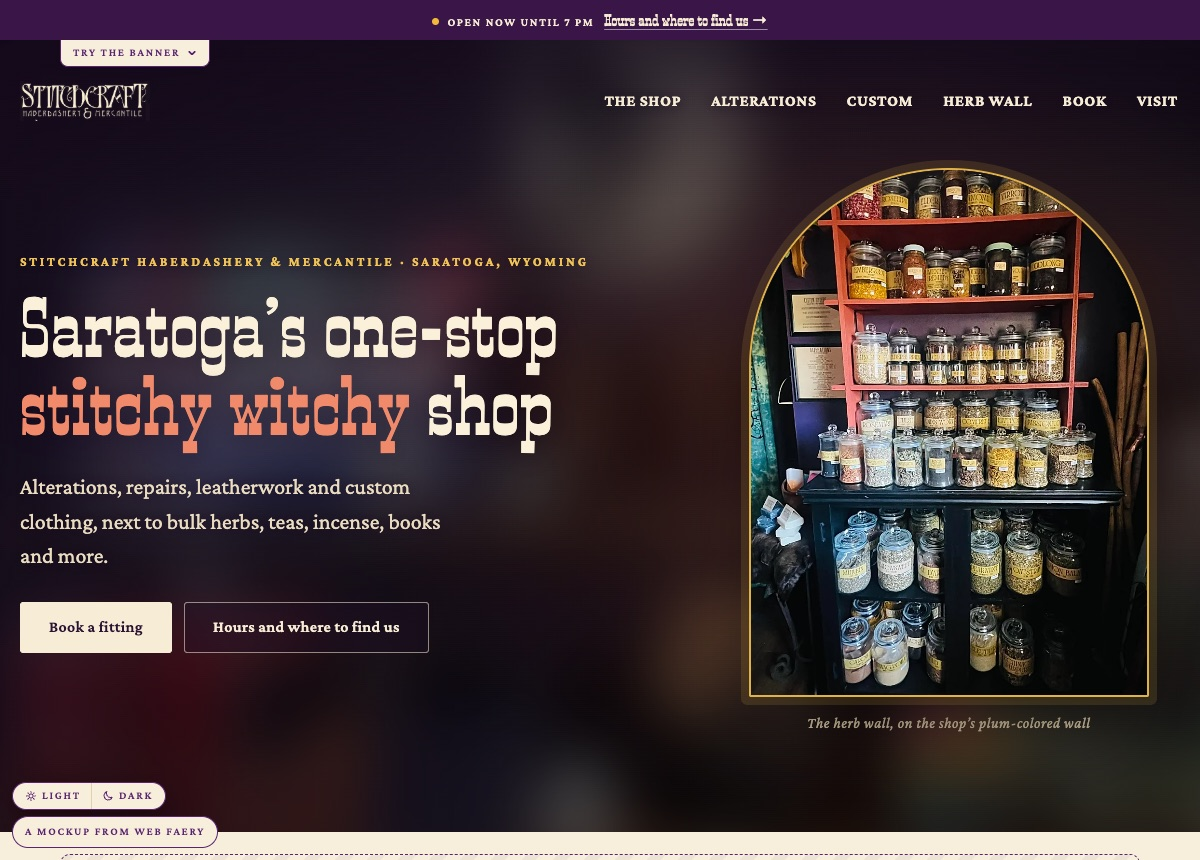
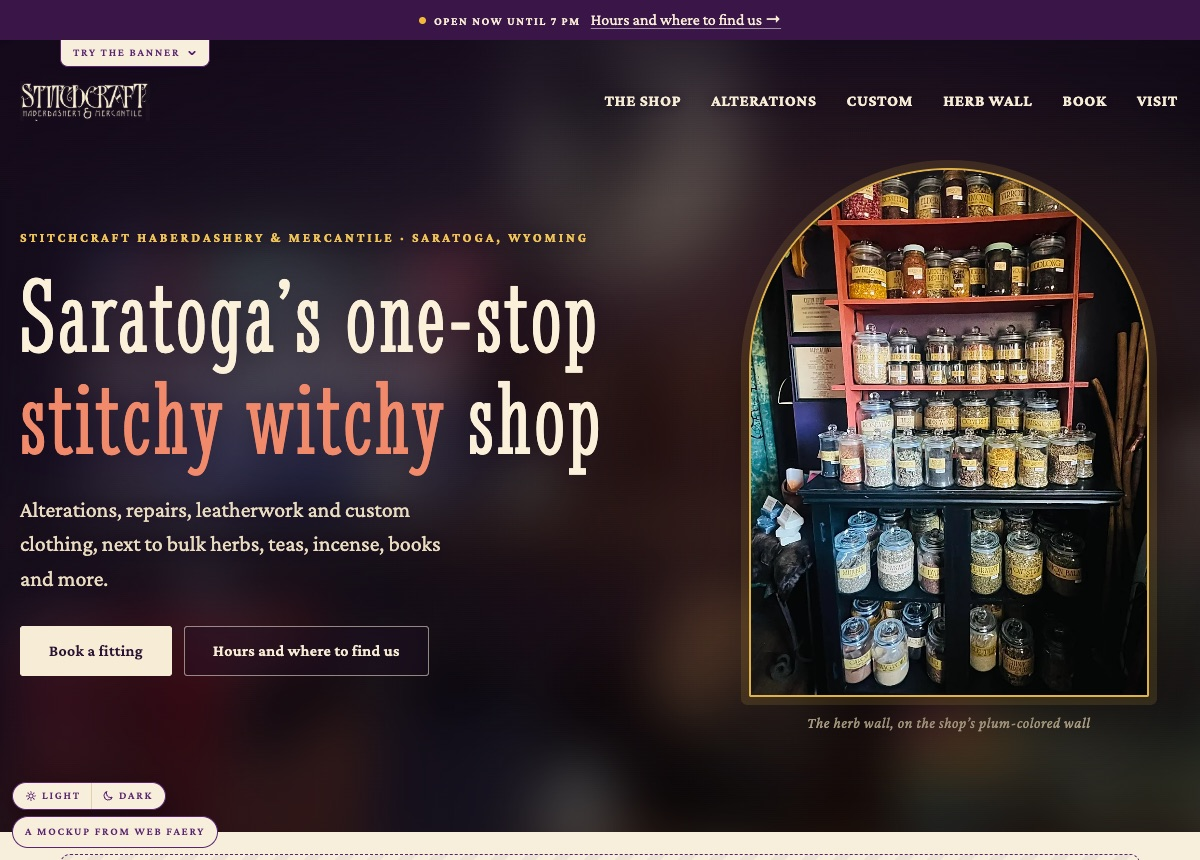
StitchCraft mockup: heading font closer to the shop's own lettering (Stint Ultra Condensed)

Changed region(s): [[0.0, 0.2721, 0.5242, 0.786], [0.3392, 0.0, 0.6475, 0.0302]]

diff --git a/peek/stitchcraft-saratoga/index.html b/peek/stitchcraft-saratoga/index.html
@@ -16,7 +16,7 @@
 <link rel="preload" as="image" type="image/webp" href="images/jar-shelf.webp" fetchpriority="high">
 <link rel="preconnect" href="https://fonts.googleapis.com">
 <link rel="preconnect" href="https://fonts.gstatic.com" crossorigin>
-<link rel="stylesheet" href="https://fonts.googleapis.com/css2?family=Crimson+Pro:ital,wght@0,400;0,600;0,700;1,400&family=Smokum&family=Caveat:wght@600&display=swap">
+<link rel="stylesheet" href="https://fonts.googleapis.com/css2?family=Crimson+Pro:ital,wght@0,400;0,600;0,700;1,400&family=Stint+Ultra+Condensed&family=Caveat:wght@600&display=swap">
 <script type="application/ld+json">{"@context":"https://schema.org","@type":"LocalBusiness","name":"StitchCraft Haberdashery & Mercantile","description":"Alterations, repairs, leatherwork and custom clothing, next to bulk herbs, teas, incense, books and more, in Saratoga, Wyoming.","telephone":"+1-307-939-7139","address":{"@type":"PostalAddress","streetAddress":"112 E Bridge Ave, Ste 2","addressLocality":"Saratoga","addressRegion":"WY","postalCode":"82331","addressCountry":"US"},"openingHoursSpecification":[{"@type":"OpeningHoursSpecification","dayOfWeek":["Monday","Tuesday","Thursday","Friday","Saturday"],"opens":"12:00","closes":"19:00"}],"sameAs":["https://www.instagram.com/stitchcraft_saratoga/","https://www.facebook.com/p/StitchCraft-Haberdashery-Mercantile-61575471990813/"]}</script>
 <style>
   :root {
@@ -129,7 +129,7 @@
   .news button:focus-visible, .news input:focus-visible { outline-color: var(--on-band); }
   .news .hint { color: #f0c457; }
   .news .nl-done { margin-top: 22px; padding-top: 18px; border-top: 1px solid rgba(243, 236, 246, 0.16); }
-  .news .nl-done h4 { margin: 0 0 6px; font-family: 'Smokum', Georgia, serif; font-weight: 400; font-size: 24px; color: var(--on-band); }
+  .news .nl-done h4 { margin: 0 0 6px; font-family: 'Crimson Pro', Georgia, serif; font-weight: 400; font-size: 24px; color: var(--on-band); }
   .news .demo-note { color: rgba(243, 236, 246, 0.72); }
   .news .sun-big { position: absolute; right: -46px; top: -46px; width: 150px; height: 150px; opacity: 0.16; pointer-events: none; }
 
@@ -141,7 +141,7 @@
   .status-strip b::before { content: ""; display: inline-block; width: 7px; height: 7px; border-radius: 50%; background: #f2b83a; margin-right: 8px; vertical-align: 1px; }
   .status-strip[data-state="spot"] b::before { background: #9fe07a; box-shadow: 0 0 0 3px rgba(159, 224, 122, 0.25); }
   .status-strip[data-state="full"] b::before { background: #e6a2c6; }
-  .status-strip em { font-family: 'Smokum', Georgia, serif; font-style: normal; font-size: 16px; text-decoration: underline; text-decoration-thickness: 1px; text-underline-offset: 3px; text-decoration-color: rgba(243, 236, 246, 0.55); }
+  .status-strip em { font-family: 'Crimson Pro', Georgia, serif; font-style: normal; font-size: 16px; text-decoration: underline; text-decoration-thickness: 1px; text-underline-offset: 3px; text-decoration-color: rgba(243, 236, 246, 0.55); }
   .status-strip a:hover em { text-decoration-color: currentColor; }
   .status-strip a:focus-visible { outline: 2px solid #f7ecd6; outline-offset: -4px; border-radius: 4px; }
   .status-tab { position: absolute; top: 100%; left: calc(20px + max(0px, (100% - 1120px) / 2)); display: flex; align-items: flex-start; gap: 6px; }
@@ -158,7 +158,7 @@
   .seg button { font: inherit; font-size: 15.5px; font-weight: 600; line-height: 1.25; color: var(--ink-soft); background: transparent; border: 0; border-radius: 4px; padding: 10px 12px; min-height: 44px; cursor: pointer; }
   .seg button[aria-pressed="true"] { background: var(--btn); color: var(--btn-ink); }
   .status-seg { grid-template-columns: repeat(3, minmax(0, 1fr)); flex: 0 1 360px; }
-  .status-note { margin: 0; font-family: 'Smokum', Georgia, serif; font-size: 17px; color: var(--plum); }
+  .status-note { margin: 0; font-family: 'Crimson Pro', Georgia, serif; font-size: 17px; color: var(--plum); }
   @media (prefers-reduced-motion: reduce) { .status-try svg { transition: none; } }
   @media (max-width: 560px) { .status-strip a { padding: 8px 12px; gap: 0 8px; } .status-strip b { font-size: 11px; letter-spacing: 0.11em; } .status-strip em { font-size: 15px; } .status-seg { flex-basis: 100%; } }
   .theme-tab { display: inline-flex; align-items: stretch; min-height: 26px; box-sizing: border-box; background: var(--ground); border: 1px solid var(--plum); border-top: 0; border-radius: 0 0 8px 8px; }
@@ -190,14 +190,14 @@
   .views-head { display: flex; flex-wrap: wrap; align-items: baseline; justify-content: space-between; gap: 0 14px; }
   .views-q { margin: 0; display: inline-flex; align-items: center; gap: 7px; font-size: 12px; line-height: 1.5; letter-spacing: 0.14em; text-transform: uppercase; font-weight: 600; color: var(--plum); }
   .views-q::before { content: "\2726"; content: "\2726" / ""; font-size: 9px; letter-spacing: 0; opacity: 0.8; }
-  .views-price { margin: 0; font-family: 'Smokum', Georgia, serif; font-size: 16px; line-height: 1.5; color: var(--ink-soft); }
-  .views-spots { grid-column: 1 / -1; margin: 0 2px; font-family: 'Smokum', Georgia, serif; font-size: 16px; color: var(--ink-soft); line-height: 1.5; }
+  .views-price { margin: 0; font-family: 'Crimson Pro', Georgia, serif; font-size: 16px; line-height: 1.5; color: var(--ink-soft); }
+  .views-spots { grid-column: 1 / -1; margin: 0 2px; font-family: 'Crimson Pro', Georgia, serif; font-size: 16px; color: var(--ink-soft); line-height: 1.5; }
   .vseg { display: grid; grid-template-columns: repeat(4, minmax(0, 1fr)); gap: 4px; padding: 4px; background: var(--mist); border: 1px solid var(--hair); border-radius: 8px; }
   .views-care { grid-column: 1 / -1; display: flex; flex-wrap: wrap; align-items: baseline; gap: 2px 14px; padding: 10px 14px; background: var(--mist); border: 1px solid var(--hair); border-radius: 8px; }
   .views-care .care-what { flex: 1 1 260px; font-size: 14.5px; line-height: 1.45; opacity: 0.9; }
   .vseg button { display: flex; flex-direction: column; align-items: center; justify-content: center; gap: 3px; min-height: 58px; margin: 0; padding: 8px 6px;
     font: inherit; line-height: 1.2; text-align: center; color: var(--ink); background: transparent; border: 0; border-radius: 6px; cursor: pointer; transition: background-color 0.25s ease, color 0.25s ease; }
-  .vseg b, .views-care b { font-family: 'Smokum', Georgia, serif; font-weight: 400; font-size: 20px; line-height: 1.15; }
+  .vseg b, .views-care b { font-family: 'Crimson Pro', Georgia, serif; font-weight: 400; font-size: 20px; line-height: 1.15; }
   .vseg .pr, .views-care .pr { font-size: 13.5px; color: var(--ink-soft); font-variant-numeric: tabular-nums; } /* wraps: on a narrow button the struck regular price drops under "$300 build", so no price runs into the next button */
   .vseg .pr strong, .views-care .pr strong { font-weight: 700; color: var(--plum); }
   .vseg .pr s, .views-care .pr s { margin-left: 5px; }
@@ -250,10 +250,9 @@
 
   /* ---------- StitchCraft: the look ----------
      Taken from the shop itself: the aubergine wall behind the herb shelves, the coral red of the shelf, the gold of the
-     jar labels, and the parchment of her own price boards (#e9dcb1). Smokum (a tall wanted-poster slab) after the
-     lettering on her price boards; Crimson Pro for reading. */
+     jar labels, and the parchment of her own price boards (#e9dcb1). Stint Ultra Condensed after the lettering on her price boards; Crimson Pro for reading. */
   body { font-family: 'Crimson Pro', Georgia, serif; font-size: 19.5px; line-height: 1.62; }
-  h1, h2, h3, h4, .serif { font-family: 'Smokum', 'Rockwell', Georgia, serif; font-weight: 400; text-wrap: balance; margin: 0; letter-spacing: 0.01em; text-transform: none; }
+  h1, h2, h3, h4, .serif { font-family: 'Stint Ultra Condensed', 'Rockwell', Georgia, serif; font-weight: 400; text-wrap: balance; margin: 0; letter-spacing: 0.01em; text-transform: none; }
   h2 { font-size: clamp(36px, 5.4vw, 56px); line-height: 1.04; color: var(--ink); }
   h2 em, h1 em, h3 em, h4 em { font-style: normal; color: var(--coral); }
   .label { font-family: 'Crimson Pro', Georgia, serif; font-size: 13px; letter-spacing: 0.22em; text-transform: uppercase; font-weight: 700; color: var(--plum); margin: 0 0 14px; }
@@ -345,10 +344,10 @@
   .custom .photo { aspect-ratio: 5 / 6; }
   .custom ul.makes { list-style: none; margin-top: 22px; border-top: 1px solid var(--hair); }
   .custom ul.makes li { padding: 11px 0; border-bottom: 1px solid var(--hair); display: flex; gap: 12px; align-items: baseline; }
-  .custom ul.makes b { font-family: 'Smokum', Georgia, serif; font-weight: 400; font-size: 23px; color: var(--ink); min-width: 9.2em; }
+  .custom ul.makes b { font-family: 'Stint Ultra Condensed', Georgia, serif; font-weight: 400; font-size: 23px; color: var(--ink); min-width: 9.2em; }
   .custom ul.makes span { color: var(--ink-soft); font-size: 17.5px; }
   .turn { display: inline-flex; align-items: baseline; gap: 10px; margin-top: 24px; padding: 10px 16px; border: 1.5px solid var(--coral); border-radius: 3px; color: var(--ink); font-weight: 600; }
-  .turn b { font-family: 'Smokum', Georgia, serif; font-weight: 400; font-size: 26px; color: var(--coral); }
+  .turn b { font-family: 'Stint Ultra Condensed', Georgia, serif; font-weight: 400; font-size: 26px; color: var(--coral); }
 
   /* THE SIGNATURE: the herb wall. Tap a jar to put it on your list; the list writes your note to the shop. */
   .wall { background: #1d0f26; color: #f7ecd6; }
@@ -384,8 +383,8 @@
   /* kind words */
   .words { display: grid; grid-template-columns: minmax(0, 1.2fr) minmax(0, 0.8fr); gap: 26px; margin-top: 34px; align-items: stretch; }
   .quote { background: var(--paper); border: 1px solid var(--hair); border-radius: 4px; padding: 34px 34px 28px; position: relative; }
-  .quote::before { content: "\201C"; position: absolute; top: 4px; left: 20px; font-family: 'Smokum', Georgia, serif; font-size: 90px; line-height: 1; color: var(--coral); opacity: 0.35; }
-  .quote p { font-family: 'Smokum', Georgia, serif; font-size: clamp(27px, 3.4vw, 36px); line-height: 1.18; color: var(--ink); position: relative; }
+  .quote::before { content: "\201C"; position: absolute; top: 4px; left: 20px; font-family: 'Stint Ultra Condensed', Georgia, serif; font-size: 90px; line-height: 1; color: var(--coral); opacity: 0.35; }
+  .quote p { font-family: 'Stint Ultra Condensed', Georgia, serif; font-size: clamp(27px, 3.4vw, 36px); line-height: 1.18; color: var(--ink); position: relative; }
   .quote cite { display: block; margin-top: 18px; font-style: normal; font-size: 15px; letter-spacing: 0.14em; text-transform: uppercase; font-weight: 700; color: var(--plum); }
 
   /* hours + find */
@@ -414,7 +413,7 @@
   .bk-nav { display: flex; flex-wrap: wrap; gap: 0 10px; align-items: center; }
   .bk-grid { display: grid; grid-template-columns: repeat(2, minmax(0, 1fr)); gap: 10px; }
   .bk-opt, .bk-day, .bk-time { font: inherit; color: var(--ink); background: var(--ground); border: 1px solid var(--hair); border-radius: 3px; padding: 12px; text-align: left; cursor: pointer; min-height: 46px; }
-  .bk-opt b { display: block; font-family: 'Smokum', Georgia, serif; font-weight: 400; font-size: 24px; line-height: 1.1; }
+  .bk-opt b { display: block; font-family: 'Stint Ultra Condensed', Georgia, serif; font-weight: 400; font-size: 24px; line-height: 1.1; }
   .bk-opt span { font-size: 16px; color: var(--ink-soft); }
   .bk-opt[aria-pressed="true"], .bk-day[aria-pressed="true"], .bk-time[aria-pressed="true"] { border-color: var(--coral); box-shadow: inset 0 0 0 1px var(--coral); }
   .bk-day:disabled, .bk-time:disabled { opacity: 0.4; cursor: not-allowed; text-decoration: line-through; }
@@ -429,13 +428,13 @@
   .bk-side .parch { padding: 22px 20px; }
   .btn.cal[disabled] { opacity: 0.55; cursor: not-allowed; }
   .stripe-card { margin-top: 22px; padding: 18px 20px; border: 1.5px dashed var(--coral); border-radius: 4px; font-size: 17.5px; }
-  .stripe-card b { font-family: 'Smokum', Georgia, serif; font-weight: 400; font-size: 24px; display: block; margin-bottom: 4px; }
+  .stripe-card b { font-family: 'Stint Ultra Condensed', Georgia, serif; font-weight: 400; font-size: 24px; display: block; margin-bottom: 4px; }
 
   /* FAQ */
   .faq { display: grid; grid-template-columns: minmax(0, 0.8fr) minmax(0, 1.2fr); gap: 52px; align-items: start; }
   .faq-list { border-top: 1px solid var(--hair); }
   .faq-list details { border-bottom: 1px solid var(--hair); }
-  .faq-list summary { cursor: pointer; padding: 18px 34px 18px 0; list-style: none; font-family: 'Smokum', Georgia, serif; font-size: 25px; line-height: 1.2; position: relative; }
+  .faq-list summary { cursor: pointer; padding: 18px 34px 18px 0; list-style: none; font-family: 'Stint Ultra Condensed', Georgia, serif; font-size: 25px; line-height: 1.2; position: relative; }
   .faq-list summary::-webkit-details-marker { display: none; }
   .faq-list summary::after { content: "+"; position: absolute; right: 4px; top: 14px; font-family: 'Crimson Pro', serif; font-size: 28px; color: var(--coral); }
   .faq-list details[open] summary::after { content: "\2212"; }
@@ -461,7 +460,7 @@
   .egg-art svg { position: absolute; inset: 0; width: 100%; height: 100%; }
   .egg-art circle.stitches { fill: none; stroke: #e0b24a; stroke-width: 2.4; stroke-linecap: round; stroke-dasharray: 3.2 2.6; }
   .egg-art img { position: relative; width: 70%; height: auto; }
-  .egg-cue { font-family: 'Smokum', Georgia, serif; font-size: clamp(28px, 5vw, 40px); line-height: 1.15; min-height: 2.3em; color: #fbf1da; }
+  .egg-cue { font-family: 'Stint Ultra Condensed', Georgia, serif; font-size: clamp(28px, 5vw, 40px); line-height: 1.15; min-height: 2.3em; color: #fbf1da; }
   .egg-small { font-size: 13px; letter-spacing: 0.2em; text-transform: uppercase; opacity: 0.75; }
 
   @media (max-width: 860px) {
@@ -491,6 +490,29 @@
   .wall .ph { color: #f0c457; text-decoration-color: #f0c457; }
   .door-photo .photo { aspect-ratio: 4 / 3; }
   @media (max-width: 640px) { .hero .label .sep { display: none; } .hero .label .nw { white-space: normal; } .hero .label .place { display: block; margin-top: 6px; } }
+
+  /* type sizes for Stint Ultra Condensed (a narrow face, so it runs bigger than a normal serif) */
+  h1, h2, h3, h4 { letter-spacing: 0.03em; }
+  h2 { font-size: clamp(50px, 7vw, 80px); line-height: 0.98; }
+  .hero h1 { font-size: clamp(62px, 9vw, 128px); line-height: 0.94; }
+  .door h3 { font-size: 40px; }
+  .parch h3 { font-size: clamp(48px, 6.4vw, 66px); }
+  .parch h4 { font-size: 34px; }
+  .parch .row { font-family: 'Stint Ultra Condensed', Georgia, serif; font-size: 24px; font-weight: 400; letter-spacing: 0.03em; }
+  .custom ul.makes b { font-size: 31px; min-width: 7.6em; }
+  .turn b { font-size: 36px; }
+  .quote p { font-size: clamp(36px, 4.6vw, 48px); line-height: 1.08; }
+  .quote::before { font-size: 110px; }
+  .bk-opt b { font-size: 30px; }
+  .list-card h3 { font-size: 40px; }
+  .faq-list summary { font-size: 32px; }
+  .faq-list summary::after { top: 10px; }
+  .egg-cue { font-size: clamp(38px, 6.4vw, 54px); }
+  .news h3 { font-size: clamp(38px, 4.6vw, 46px); }
+  .bk-done h3, .bk-card h3 { font-size: 38px; }
+  .nl-done h4 { font-size: 32px; }
+  .stripe-card b { font-size: 30px; }
+  @media (max-width: 560px) { .parch .row { font-size: 20px; } .hero h1 { font-size: clamp(58px, 17vw, 80px); } }
 
 
   /* ---------- STICKY NAV (Oct 7 2026): the top nav stays stuck while you scroll; on phones a slim bar with a Menu button; tucks up on the way down and returns on the way up; styled from this page's own colors and fonts ---------- */
@@ -819,7 +841,7 @@
     <div class="adv-block" id="advbook" data-show="crone all" data-fold>
       <div data-thing="booking on the site">
         <p class="label with-pill"><span>Book right here</span> <span class="tag" data-go="crone">Advance<span class="tag-p"><span aria-hidden="true">&middot;</span> $900</span></span></p>
-        <h3 style="font-size:clamp(30px,4vw,42px);line-height:1.08">Pick a time <em>without leaving the page</em></h3>
+        <h3 style="font-size:clamp(42px,5.4vw,60px);line-height:1">Pick a time <em>without leaving the page</em></h3>
         <div class="bk">
           <div class="bk-card" id="bk-card">
             <div class="bk-steps" id="bk-steps" aria-hidden="true"><span class="on" data-s="1">1 What</span><span data-s="2">2 When</span><span data-s="3">3 You</span></div>
